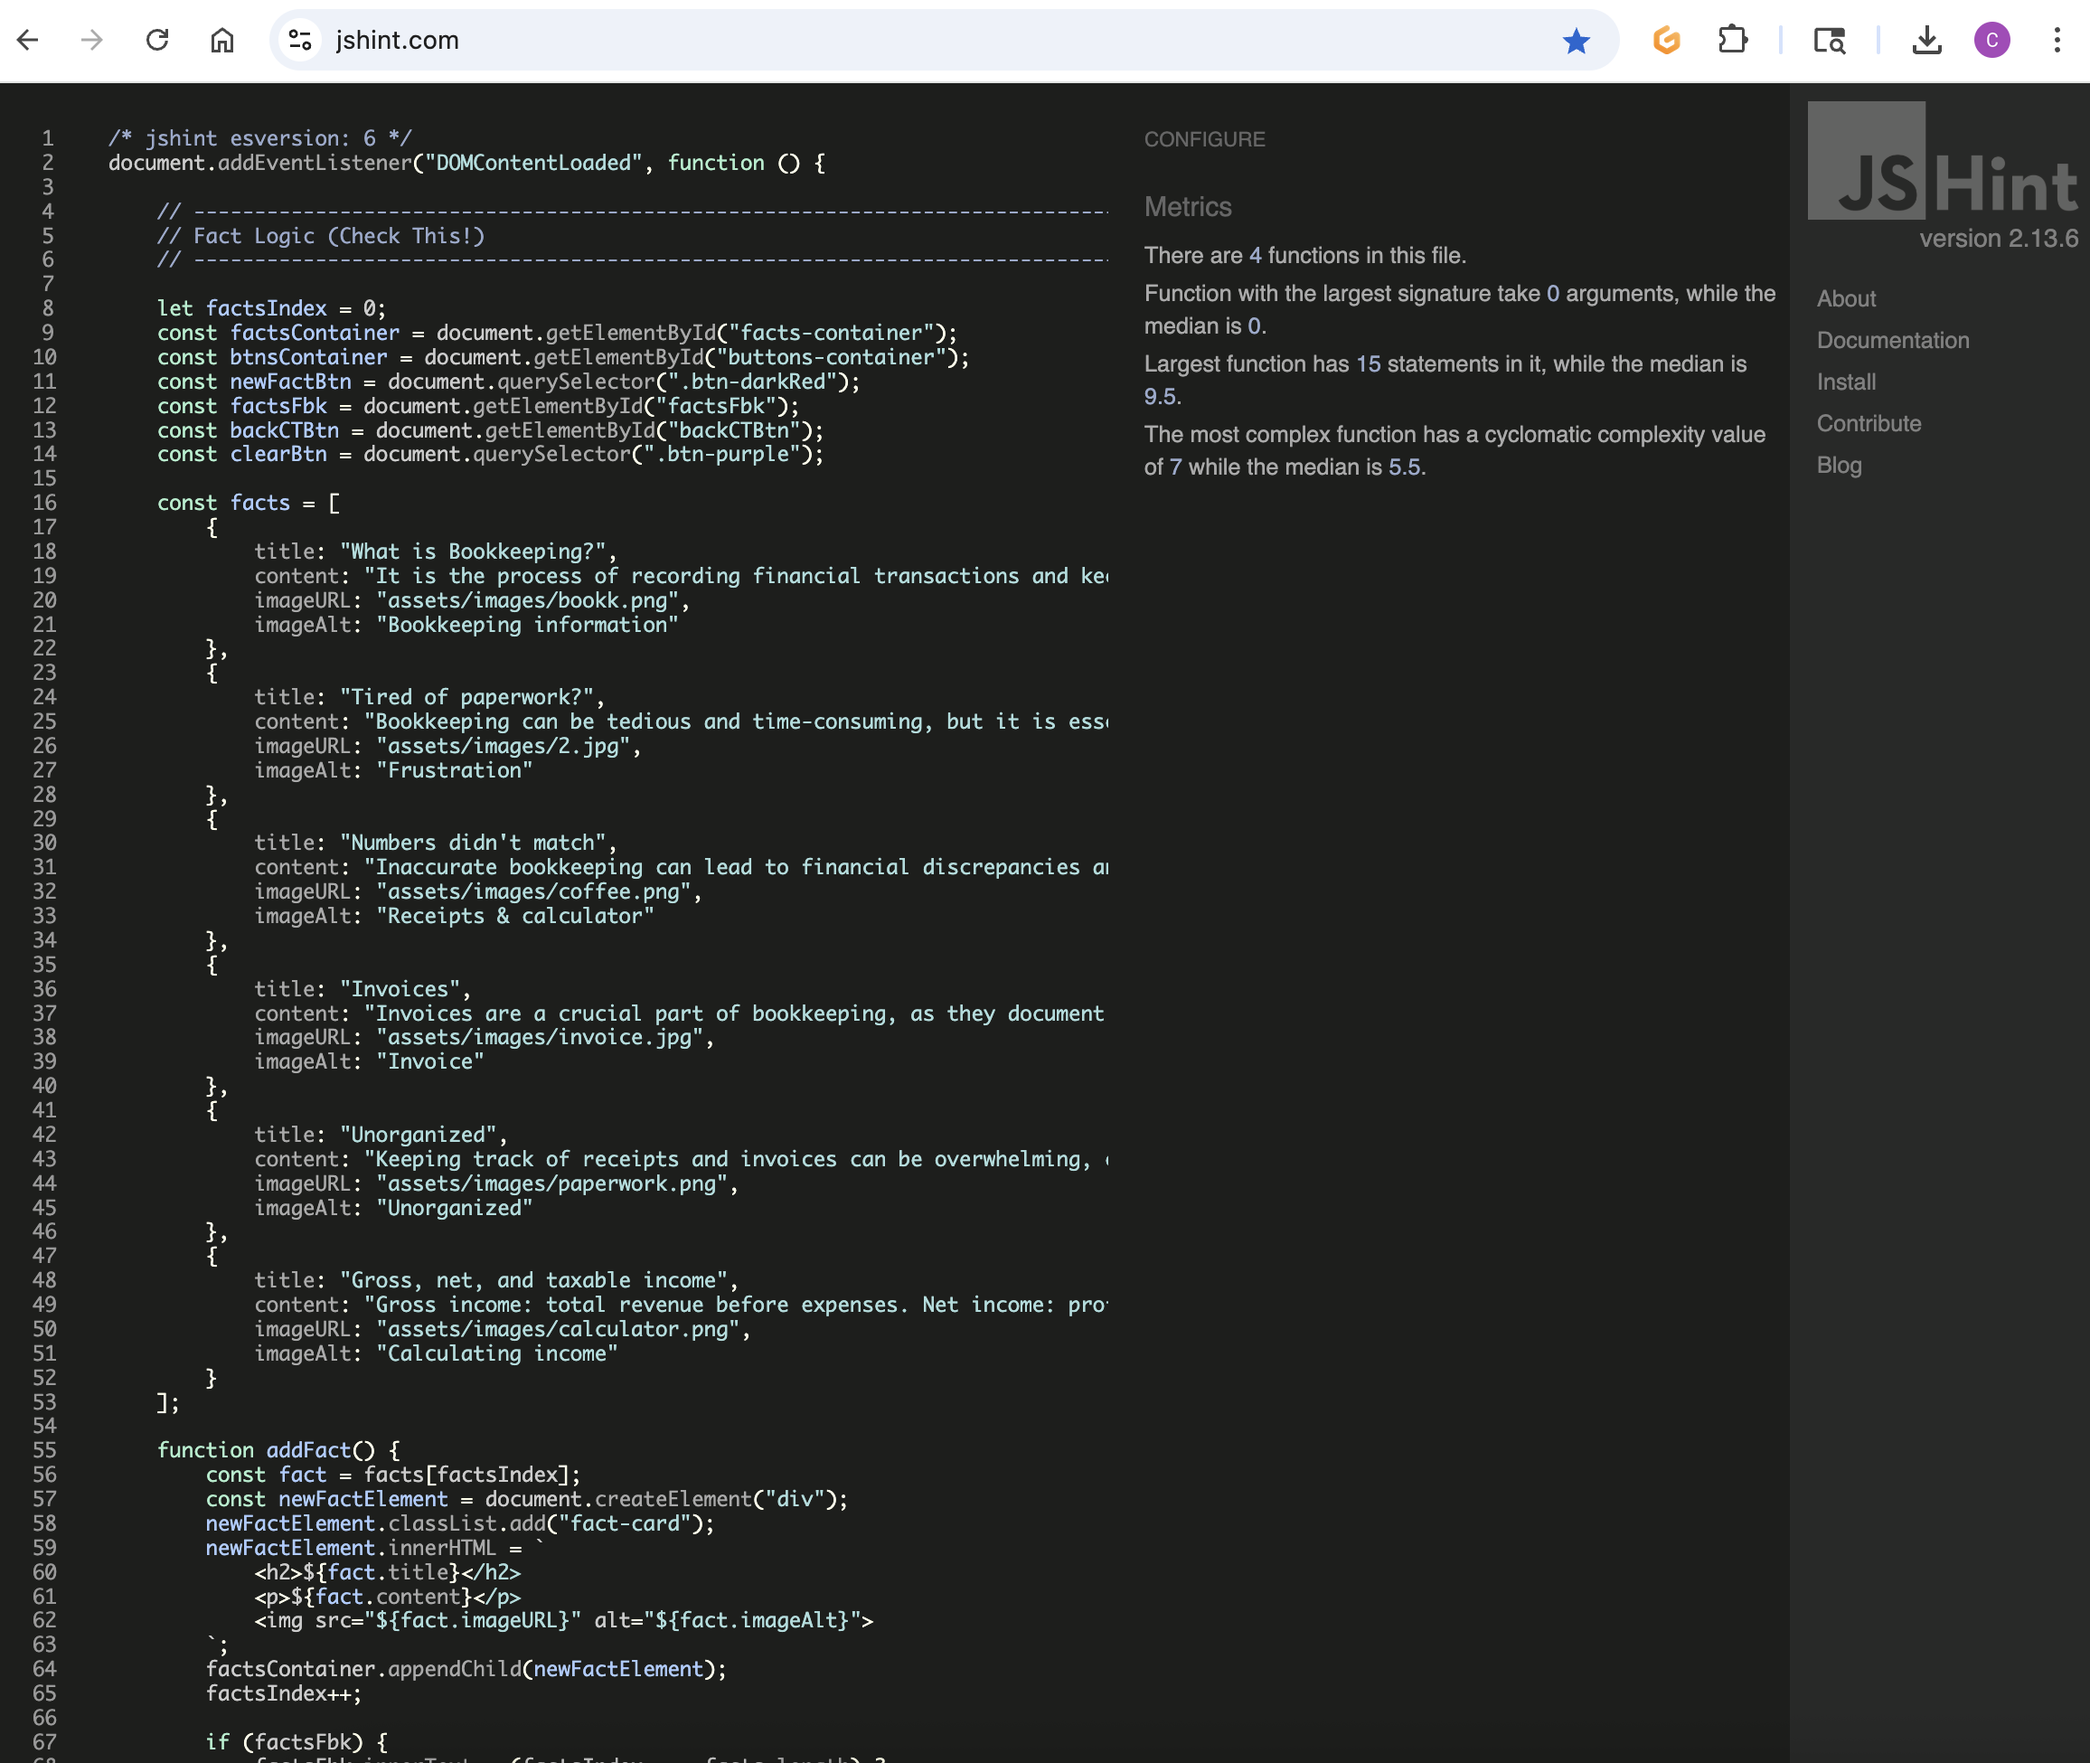
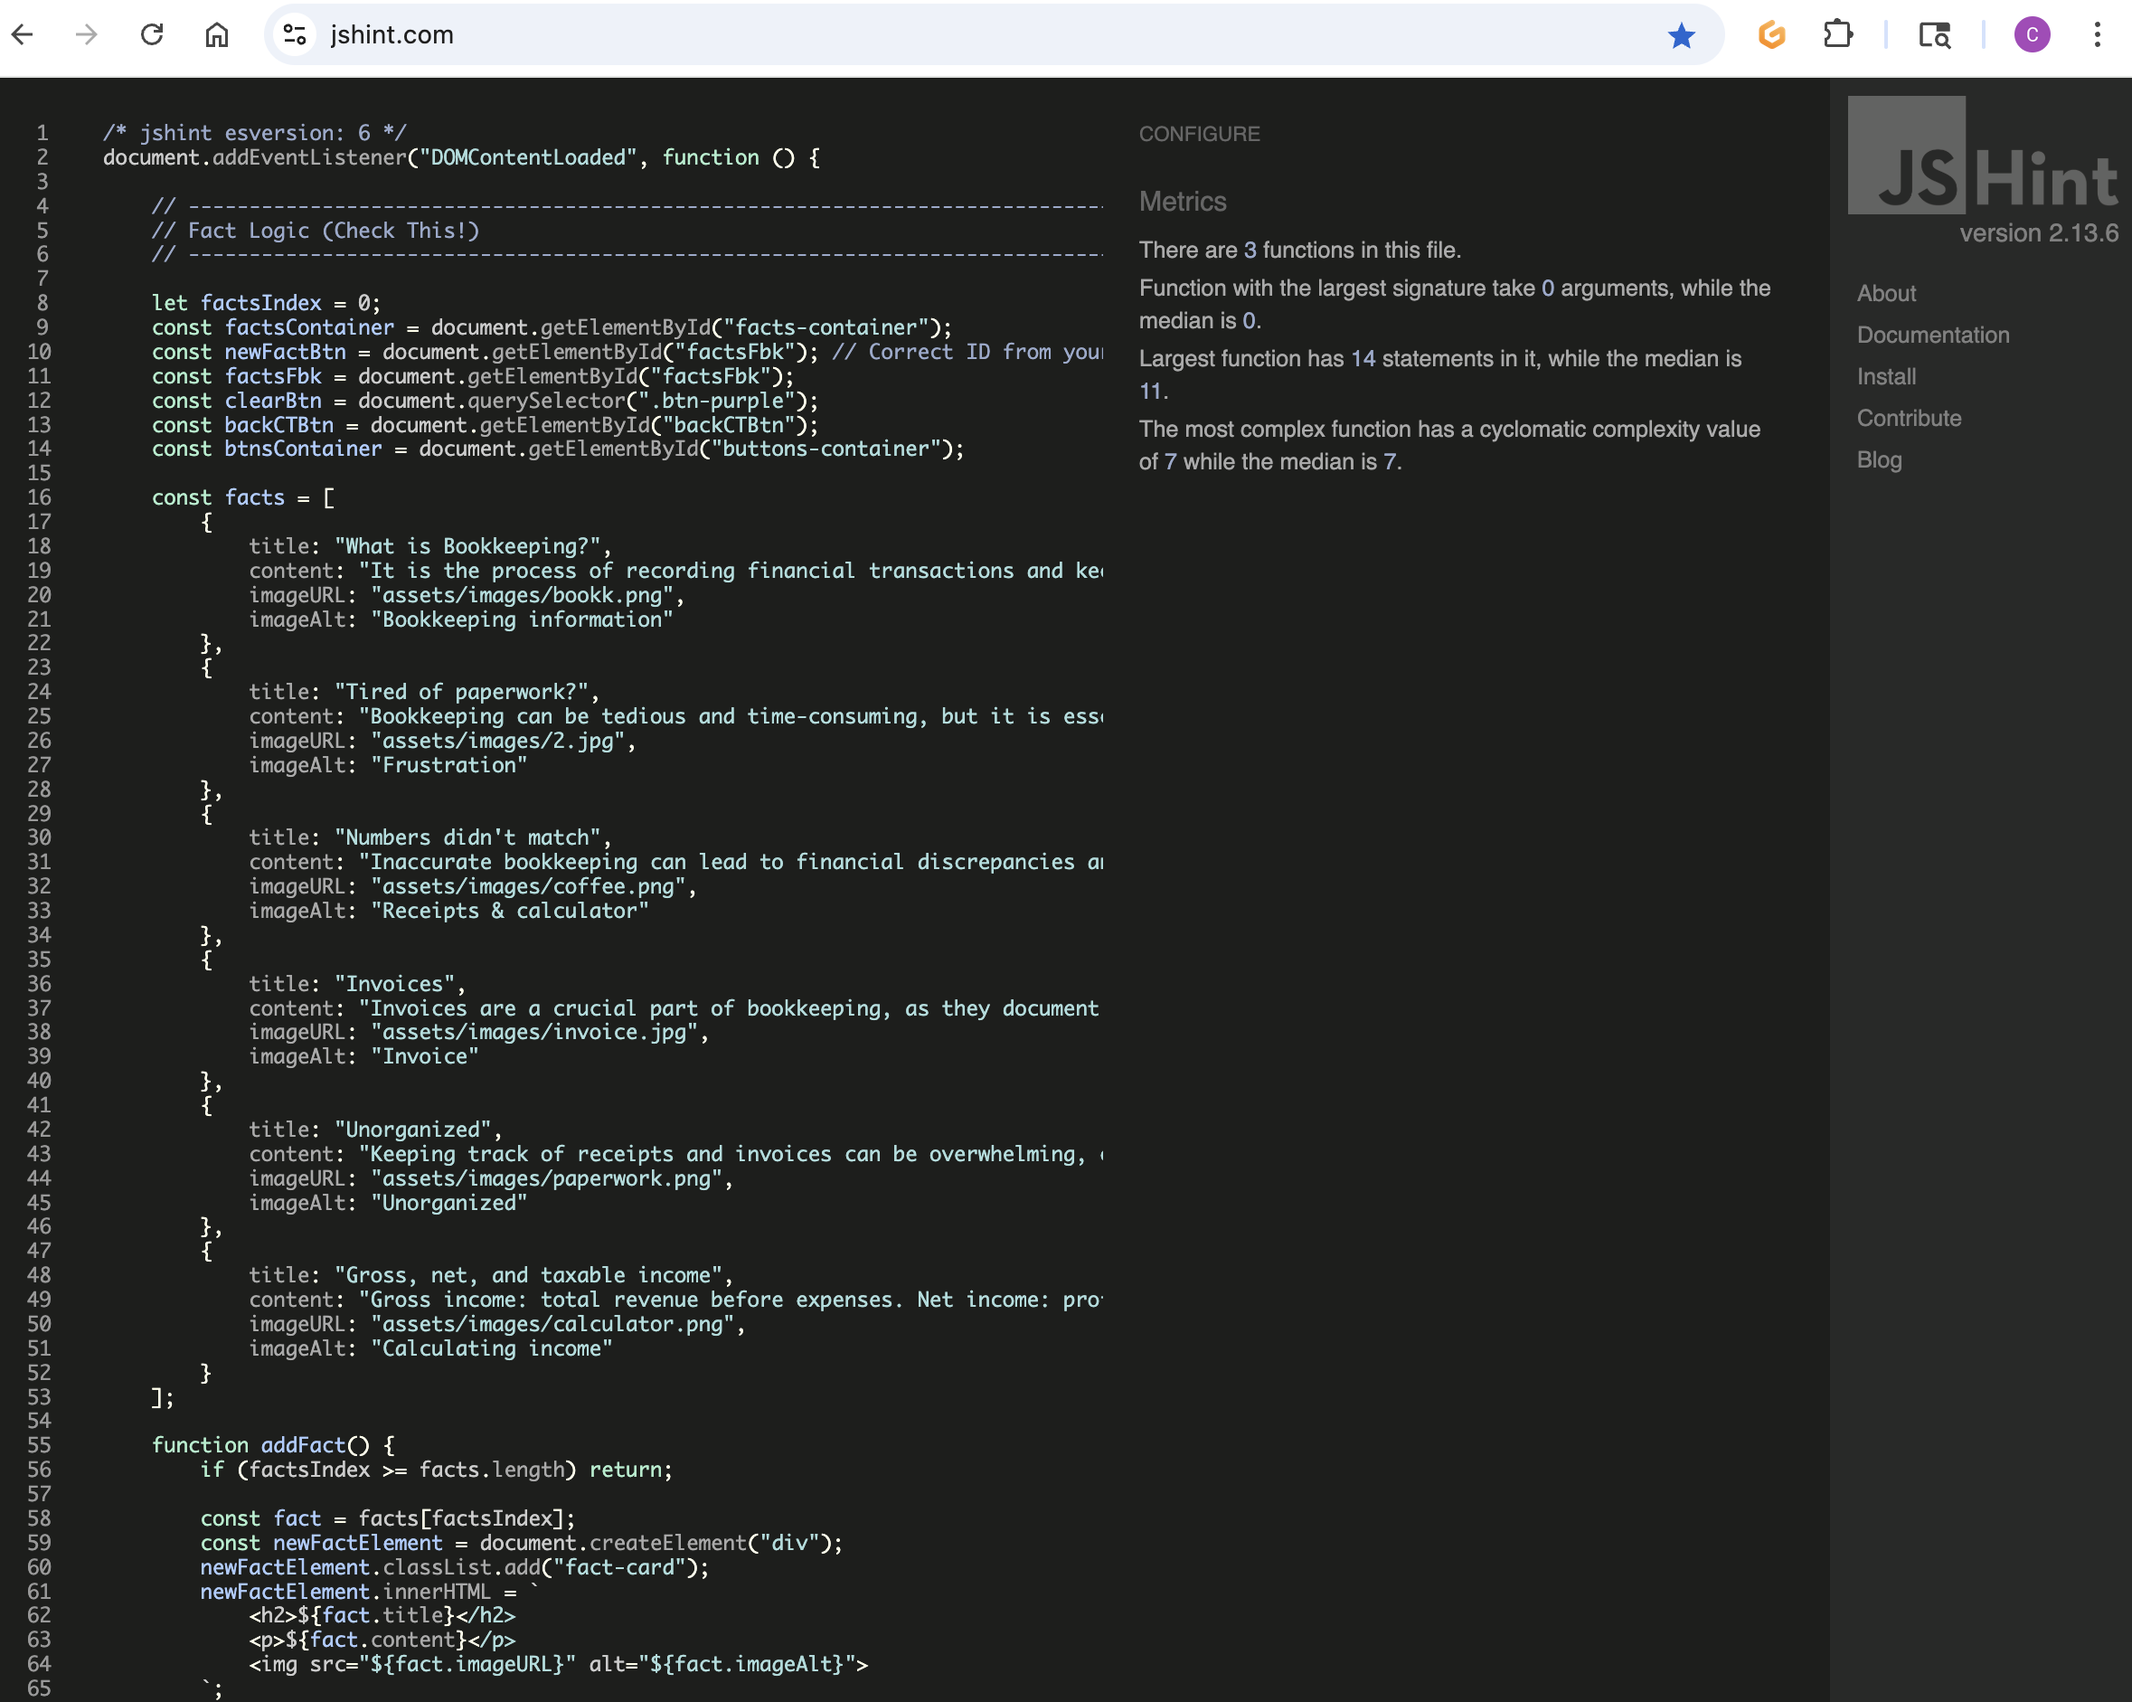
fix: on Readme replace img for Quiz and checkThis with the button added, also verified Lighthouse and console

diff --git a/assets/js/checkThis.js b/assets/js/checkThis.js
@@ -7,11 +7,11 @@ document.addEventListener("DOMContentLoaded", function () {
 
     let factsIndex = 0;
     const factsContainer = document.getElementById("facts-container");
-    const btnsContainer = document.getElementById("buttons-container");
-    const newFactBtn = document.querySelector(".btn-darkRed");
+    const newFactBtn = document.getElementById("factsFbk"); // Correct ID from your HTML
     const factsFbk = document.getElementById("factsFbk");
-    const backCTBtn = document.getElementById("backCTBtn");
     const clearBtn = document.querySelector(".btn-purple");
+    const backCTBtn = document.getElementById("backCTBtn");
+    const btnsContainer = document.getElementById("buttons-container");
 
     const facts = [
         {
@@ -53,6 +53,8 @@ document.addEventListener("DOMContentLoaded", function () {
     ];
 
     function addFact() {
+        if (factsIndex >= facts.length) return;
+
         const fact = facts[factsIndex];
         const newFactElement = document.createElement("div");
         newFactElement.classList.add("fact-card");
@@ -61,46 +63,41 @@ document.addEventListener("DOMContentLoaded", function () {
             <p>${fact.content}</p>
             <img src="${fact.imageURL}" alt="${fact.imageAlt}">
         `;
+
         factsContainer.appendChild(newFactElement);
         factsIndex++;
 
         if (factsFbk) {
             factsFbk.innerText = (factsIndex === facts.length) ?
-                "See Facts!" :
+                "All facts displayed" :
                 "Click to add another fact";
         }
 
         if (factsIndex === facts.length && newFactBtn && btnsContainer.contains(newFactBtn)) {
             btnsContainer.removeChild(newFactBtn);
-            if (backCTBtn) backCTBtn.style.display = "inline-block";
         }
     }
 
     function clearAllFacts() {
         factsContainer.innerHTML = "";
-        if (!btnsContainer.contains(newFactBtn)) {
-            btnsContainer.appendChild(newFactBtn);
-        }
         factsIndex = 0;
 
-        if (factsFbk) {
-            factsFbk.innerText = "Click to add another fact";
+        if (!btnsContainer.contains(newFactBtn)) {
+            btnsContainer.insertBefore(newFactBtn, backCTBtn); // place before Back button
         }
 
-        if (backCTBtn) {
-            backCTBtn.style.display = "none";
+        if (factsFbk) {
+            factsFbk.innerText = "See Facts!";
         }
     }
 
-    // Only run if all required elements are found
+    // Check all required elements before binding events
     if (factsContainer && btnsContainer && newFactBtn && clearBtn && backCTBtn && factsFbk) {
         newFactBtn.addEventListener("click", addFact);
         clearBtn.addEventListener("click", clearAllFacts);
-        backCTBtn.addEventListener("click", () => {
-            window.location.href = "./index.html";
-        });
     } else {
         console.warn("Missing required elements for fact logic.");
     }
 
 });
+

diff --git a/assets/css/quiz.css b/assets/css/quiz.css
@@ -159,8 +159,6 @@ body.feedback-wrapper {
   max-width: 100%;
 }
 
-
-
 .quiz-wrapper h1,
 .feedback-wrapper h1 {
   text-align: center;
@@ -214,7 +212,7 @@ body.feedback-wrapper {
   flex-wrap: wrap; /* Allow buttons to wrap on smaller screens */
   gap: 1rem; /* Space between buttons */
   justify-content:center;
-  margin: 1 rem auto;  /* Centers it horizontally */
+  margin: 1rem auto;  /* Centers it horizontally */
   margin-top: 1rem;
 }
 
@@ -380,15 +378,14 @@ body.checkThis-wrapper {
   color: white;
   border-radius: 5px;
   padding: 5px;
-  margin: 5px;
   width: 150px;
   border: none;
-  margin: 1 rem auto;  /* Centers it horizontally */
   justify-content: center;
+  margin: 0; /* Ensures gap works consistently */
 }
 
 #backCTBtn.checkThis-wrapper {
-  margin: 1 rem auto;  /* Centers it horizontally */
+  margin: 1rem auto;  /* Centers it horizontally */
   justify-content: center;
   align-content: center;
 }
@@ -432,13 +429,17 @@ body.checkThis-wrapper {
   margin-bottom: 25px;
 }
 
+
 .checkThis-wrapper #buttons-container {
   display: flex;
   justify-content: center;
   /* center horizontally */
-  gap: 20px;
+  gap: 1rem;
   /* space between buttons */
-  margin: 10px;
+  margin: 1rem auto;  /* Centers it horizontally */
+  align-items: center;
+  flex-wrap: wrap;
+
 }
 
 .checkThis-wrapper h1 {

diff --git a/index.html b/index.html
@@ -21,9 +21,10 @@
   <div id="bgQuickQuiz">
     <div id="coverText" class="button-group">
       <h1>Needs Bookkeeping?</h1>
-      <button id="quiz-btn" class="btn" onclick="startQuiz()">Quick Quiz</button>
-      <button id="checkThis-btn" class="btn" onclick="checkThis()">Check this!</button>
-      <button id="prize-btn" class="btn" onclick="prize()">Play & Save!</button>
+      <button id="quiz-btn" class="btn">Quick Quiz</button>
+      <button id="checkThis-btn" class="btn">Check this!</button>
+      <button id="prize-btn" class="btn">Play & Save!</button>
+
     </div>
   </div>
 

diff --git a/assets/js/quiz.js b/assets/js/quiz.js
@@ -55,10 +55,7 @@ document.addEventListener("DOMContentLoaded", function () {
           window.location.href = "./feedback.html";
         }, 4000);
       } else {
-        resultDiv.innerHTML += `<div class="feedback-line">You're doing great! Keep it up.<br>Back to Home...</div>`;
-        setTimeout(() => {
-          window.location.href = "./index.html";
-        }, 6000);
+        resultDiv.innerHTML += `<div class="feedback-line">You're doing great! Keep it up.</div>`;
       }
 
       resultDiv.classList.add("alert", "alert-info", "mt-3");

diff --git a/feedback.html b/feedback.html
@@ -39,7 +39,6 @@
     <div id="now">
 
       <a href="https://www.irs.gov/pub/irs-pdf/f1040.pdf" class="button" target="_blank">IRS Form-1040</a>
-
       <a href="https://dette-bookkeeping.com/" target="_blank" class="button">Request a Free Consultation</a>
       <a href="index.html" class="button">Home</a>
     </div>

diff --git a/checkThis.html b/checkThis.html
@@ -29,7 +29,7 @@
     <div id="facts-container" class="facts-box container"></div>
   </div>
 
-  <script src="assets/js/facts.js"></script>
+  <script src="assets/js/checkThis.js"></script>
   <script src="https://kit.fontawesome.com/2055840f51.js" crossorigin="anonymous"></script>
 </body>
 
